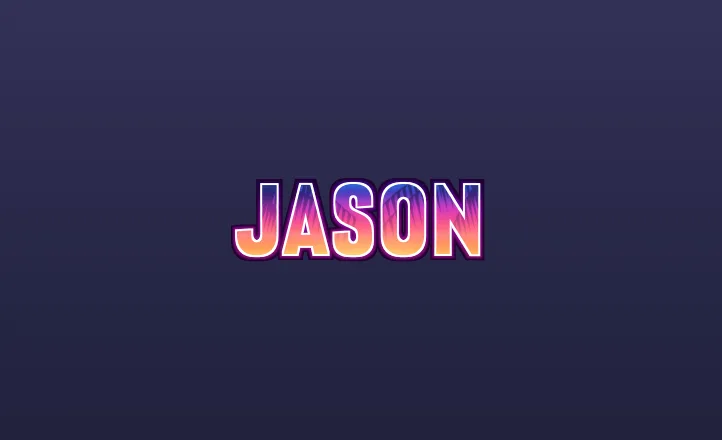
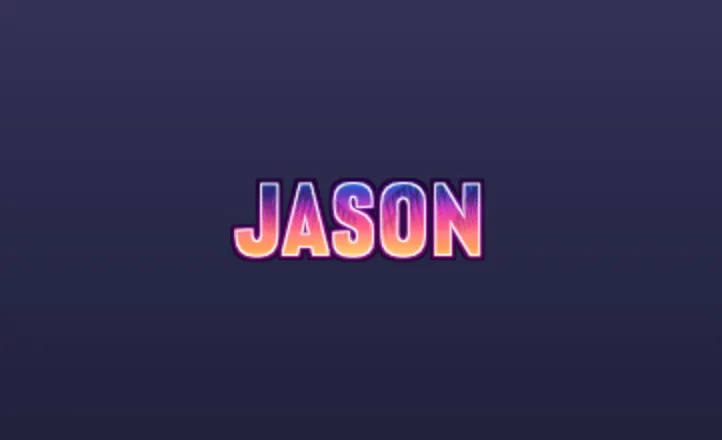
chore(site): restore live capture for preview images and refresh them

Changed region(s): [[0.3047, 0.4136, 0.6704, 0.5909]]

diff --git a/src/site/home.tsx b/src/site/home.tsx
@@ -3,7 +3,11 @@ import type { ReactElement } from "react";
 
 import { Button } from "../ui/button";
 import { ViceText } from "../ui/vice-text";
+import { DemoBoundary } from "./boundary";
 import { ENTRIES, entriesOf, sections, type Entry } from "./catalog";
+import { CropStage } from "./crop-stage";
+import { FitStage } from "./fit-stage";
+import { staticPlayground } from "./playground-state";
 import { hrefOf } from "./route";
 
 function Masthead(): ReactElement {
@@ -30,6 +34,15 @@ function Masthead(): ReactElement {
   );
 }
 
+const CAPTURING_PREVIEWS = typeof location !== "undefined" && new URLSearchParams(location.search).has("live");
+
+function LivePreview({ entry }: { entry: Entry }): ReactElement {
+  if (entry.preview) return <FitStage width={760}>{entry.preview()}</FitStage>;
+  const content = entry.render(staticPlayground(entry));
+  if (entry.crop) return <CropStage crop={entry.crop}>{content}</CropStage>;
+  return <FitStage width={entry.wide ? 860 : 600}>{content}</FitStage>;
+}
+
 function CatalogCard({ entry }: { entry: Entry }): ReactElement {
   return (
     <article className="cat-card" data-id={entry.id}>
@@ -43,15 +56,23 @@ function CatalogCard({ entry }: { entry: Entry }): ReactElement {
         <span className="cat-card__rule" aria-hidden="true" />
       </header>
       <div className="cat-card__stage" data-scene={entry.scene ? "" : undefined}>
-        <img
-          className="cat-card__shot"
-          src={`/previews/${entry.id}.webp`}
-          alt=""
-          width={722}
-          height={420}
-          loading="lazy"
-          decoding="async"
-        />
+        {CAPTURING_PREVIEWS ? (
+          <div className="cat-card__preview" inert aria-hidden="true">
+            <DemoBoundary name={entry.name}>
+              <LivePreview entry={entry} />
+            </DemoBoundary>
+          </div>
+        ) : (
+          <img
+            className="cat-card__shot"
+            src={`/previews/${entry.id}.webp`}
+            alt=""
+            width={722}
+            height={420}
+            loading="lazy"
+            decoding="async"
+          />
+        )}
       </div>
       <p className="cat-card__caption">{entry.pitch}</p>
     </article>

diff --git a/scripts/gen-previews.py b/scripts/gen-previews.py
@@ -20,7 +20,7 @@ def js(expr):
 
 os.makedirs(OUT, exist_ok=True)
 ab("set", "viewport", "1280", "900", str(SCALE))
-ab("open", f"{URL}/#/")
+ab("open", f"{URL}/?live#/")
 ab("wait", "2500")
 ab("eval", "document.documentElement.dataset.motion = 'still'")
 ids = js("[...document.querySelectorAll('.cat-card')].map(c => c.dataset.id)")
